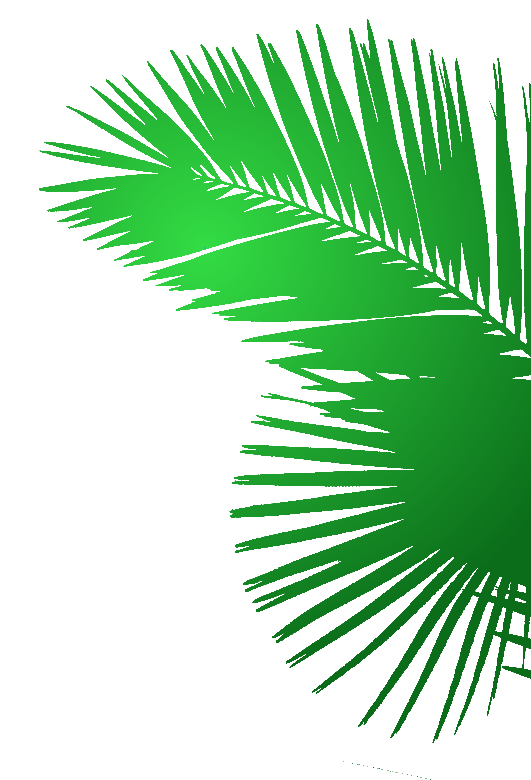
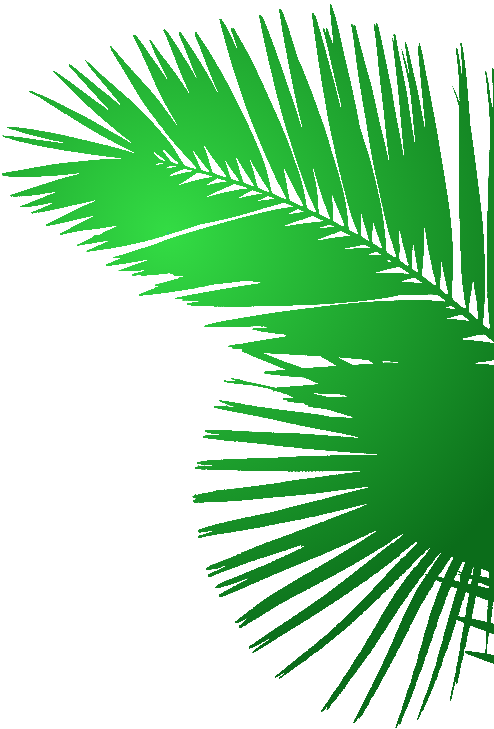
added project background

diff --git a/css/styles.min.css b/css/styles.min.css
@@ -1,1 +1,1 @@
-*{text-align:center;-webkit-box-sizing:border-box;box-sizing:border-box;font-family:'Grape Nuts', cursive}.front-leaf{position:fixed;right:0%;top:0;width:70%;-webkit-transform:translateX(40%) translateY(-20%) rotate(30deg);transform:translateX(40%) translateY(-20%) rotate(30deg);will-change:transform;-webkit-transition:-webkit-transform 1s 0.25s cubic-bezier(0.39, 0.53, 0.59, 0.69);transition:-webkit-transform 1s 0.25s cubic-bezier(0.39, 0.53, 0.59, 0.69);transition:transform 1s 0.25s cubic-bezier(0.39, 0.53, 0.59, 0.69);transition:transform 1s 0.25s cubic-bezier(0.39, 0.53, 0.59, 0.69), -webkit-transform 1s 0.25s cubic-bezier(0.39, 0.53, 0.59, 0.69)}.leaf-2{-webkit-transform:translateX(-40%) translateY(-60%) rotate(-40deg);transform:translateX(-40%) translateY(-60%) rotate(-40deg);position:fixed;left:0;top:0px;width:90%;will-change:transform;-webkit-transition:-webkit-transform 1.2s 0.25s cubic-bezier(0.39, 0.53, 0.59, 0.69);transition:-webkit-transform 1.2s 0.25s cubic-bezier(0.39, 0.53, 0.59, 0.69);transition:transform 1.2s 0.25s cubic-bezier(0.39, 0.53, 0.59, 0.69);transition:transform 1.2s 0.25s cubic-bezier(0.39, 0.53, 0.59, 0.69), -webkit-transform 1.2s 0.25s cubic-bezier(0.39, 0.53, 0.59, 0.69)}.leaf-2.is-visible{-webkit-transform:translateX(0%) translateY(0) rotate(0deg);transform:translateX(0%) translateY(0) rotate(0deg)}.front-leaf.is-visible{-webkit-transform:translateX(0%) translateY(0) rotate(0deg);transform:translateX(0%) translateY(0) rotate(0deg)}.nav-bar{position:fixed;top:0;left:0;width:100%;background-color:#265a16}.nav-bar ul{display:-webkit-box;display:-ms-flexbox;display:flex;-webkit-box-align:center;-ms-flex-align:center;align-items:center;-ms-flex-pack:distribute;justify-content:space-around;list-style:none;font-size:20px;line-height:10px}.nav-bar ul li:hover{-webkit-transform:scale(1.2);transform:scale(1.2)}.nav-bar ul a{text-decoration:none;color:white}.title{font-size:60px;position:absolute;line-height:65px;top:100px;width:100%}.contact{display:-webkit-box;display:-ms-flexbox;display:flex;-webkit-box-pack:center;-ms-flex-pack:center;justify-content:center}.contact div{margin:0 50px}.contact a{color:black}.contact div:hover{-webkit-transform:scale(1.2);transform:scale(1.2)}.arrow{padding-top:50px}#about{margin-top:650px;padding:50px 120px}#about p{font-size:25px}h2{font-size:40px}section{margin:auto;padding-top:40px}.skills-icons{display:-webkit-box;display:-ms-flexbox;display:flex;-webkit-box-pack:center;-ms-flex-pack:center;justify-content:center;-ms-flex-wrap:wrap;flex-wrap:wrap;padding:20px 200px}.skills-icons div{width:100px;height:100px;text-align:center}.skills-icons div i{font-size:40px}#projects{background-size:contain;background-repeat:no-repeat;width:100%;padding-bottom:380px}#projects h2{padding-top:190px;color:white}.project{display:-webkit-box;display:-ms-flexbox;display:flex;-ms-flex-pack:distribute;justify-content:space-around;-ms-flex-wrap:wrap;flex-wrap:wrap;background-size:contain;width:100%;color:white}.each-project{border-radius:10px;width:550px;margin:20px 0px;height:270px;text-align:center}.each-project .project-text{margin:0;opacity:0;will-change:opacity;-webkit-transition:opacity 0.5s 0.5s ease-out;transition:opacity 0.5s 0.5s ease-out}.each-project .project-text a{color:white;font-size:38px;line-height:70px}.each-project h4,.each-project h3,.each-project a,.each-project p{margin:0}.each-project h4{font-size:20px}.each-project h3{font-size:25px;font-weight:900;line-height:35px}.each-project img{border-radius:5px;will-change:width;-webkit-transition:width 1s 0.25s;transition:width 1s 0.25s;width:100%}.each-project:hover .project-text{opacity:1}.each-project:hover img{width:200px}.jobs{display:-webkit-box;display:-ms-flexbox;display:flex;-ms-flex-pack:distribute;justify-content:space-around}.job{height:400px;width:400px}.job h2{font-size:25px;line-height:25px;margin:5px}.job h3{font-size:20px;margin:5px}.job p{font-size:18px}.job .job-title{min-height:120px}.job img{height:70px}.job:hover{border:2px dashed black}
+*{text-align:center;-webkit-box-sizing:border-box;box-sizing:border-box;font-family:'Grape Nuts', cursive}.front-leaf{position:fixed;right:0%;top:0;width:70%;-webkit-transform:translateX(40%) translateY(-20%) rotate(30deg);transform:translateX(40%) translateY(-20%) rotate(30deg);will-change:transform;-webkit-transition:-webkit-transform 1s 0.25s cubic-bezier(0.39, 0.53, 0.59, 0.69);transition:-webkit-transform 1s 0.25s cubic-bezier(0.39, 0.53, 0.59, 0.69);transition:transform 1s 0.25s cubic-bezier(0.39, 0.53, 0.59, 0.69);transition:transform 1s 0.25s cubic-bezier(0.39, 0.53, 0.59, 0.69), -webkit-transform 1s 0.25s cubic-bezier(0.39, 0.53, 0.59, 0.69)}.leaf-2{-webkit-transform:translateX(-80%) translateY(-60%) rotate(-40deg);transform:translateX(-80%) translateY(-60%) rotate(-40deg);position:fixed;left:0;top:0px;width:60%;will-change:transform;-webkit-transition:-webkit-transform 1.2s 0.25s cubic-bezier(0.39, 0.53, 0.59, 0.69);transition:-webkit-transform 1.2s 0.25s cubic-bezier(0.39, 0.53, 0.59, 0.69);transition:transform 1.2s 0.25s cubic-bezier(0.39, 0.53, 0.59, 0.69);transition:transform 1.2s 0.25s cubic-bezier(0.39, 0.53, 0.59, 0.69), -webkit-transform 1.2s 0.25s cubic-bezier(0.39, 0.53, 0.59, 0.69)}.leaf-2.is-visible{-webkit-transform:translateX(0%) translateY(0) rotate(0deg);transform:translateX(0%) translateY(0) rotate(0deg)}.front-leaf.is-visible{-webkit-transform:translateX(0%) translateY(0) rotate(0deg);transform:translateX(0%) translateY(0) rotate(0deg)}.nav-bar{position:fixed;top:0;left:0;width:100%;background-color:#265a16}.nav-bar ul{display:-webkit-box;display:-ms-flexbox;display:flex;-webkit-box-align:center;-ms-flex-align:center;align-items:center;-ms-flex-pack:distribute;justify-content:space-around;list-style:none;font-size:20px;line-height:10px}.nav-bar ul li:hover{-webkit-transform:scale(1.2);transform:scale(1.2)}.nav-bar ul a{text-decoration:none;color:white}.title{font-size:60px;position:absolute;line-height:65px;top:100px;width:100%}.contact{display:-webkit-box;display:-ms-flexbox;display:flex;-webkit-box-pack:center;-ms-flex-pack:center;justify-content:center}.contact div{margin:0 50px}.contact a{color:black}.contact div:hover{-webkit-transform:scale(1.2);transform:scale(1.2)}.arrow{padding-top:50px}#about{margin-top:650px;width:900px}#about p{font-size:25px}h2{font-size:40px}section{margin:auto;padding-top:40px}#skills{width:700px}.skills-icons{display:-webkit-box;display:-ms-flexbox;display:flex;-webkit-box-pack:center;-ms-flex-pack:center;justify-content:center;-ms-flex-wrap:wrap;flex-wrap:wrap;padding:20px}.skills-icons div{width:100px;height:100px;text-align:center}.skills-icons div i{font-size:55px}#projects{background-size:contain;background-repeat:no-repeat;width:100%;padding-bottom:380px}#projects h2{padding-top:190px;color:white}.project{display:-webkit-box;display:-ms-flexbox;display:flex;-ms-flex-pack:distribute;justify-content:space-around;-ms-flex-wrap:wrap;flex-wrap:wrap;background-size:contain;width:100%;color:white}.each-project{border-radius:10px;width:550px;margin:20px 0px;height:270px;text-align:center}.each-project .project-text{margin:0;opacity:0;will-change:opacity;-webkit-transition:opacity 0.5s 0.5s ease-out;transition:opacity 0.5s 0.5s ease-out}.each-project .project-text a{color:white;font-size:38px;line-height:70px}.each-project h4,.each-project h3,.each-project a,.each-project p{margin:0}.each-project h4{font-size:20px}.each-project h3{font-size:25px;font-weight:900;line-height:35px}.each-project img{border-radius:5px;will-change:width;-webkit-transition:width 1s 0.25s;transition:width 1s 0.25s;width:100%}.each-project:hover .project-text{opacity:1}.each-project:hover img{width:200px}.jobs{display:-webkit-box;display:-ms-flexbox;display:flex;-ms-flex-pack:distribute;justify-content:space-around;padding-bottom:200px}.job{height:400px;width:400px;border-radius:20px}.job h2{font-size:25px;line-height:25px;margin:5px}.job h3{font-size:20px;margin:5px}.job p{font-size:18px}.job .job-title{min-height:120px}.job img{height:70px}.job:hover{border:4px dashed #265a16}

diff --git a/styles.scss b/styles.scss
@@ -19,11 +19,11 @@
   transition: transform 1s 0.25s cubic-bezier(0.39, 0.53, 0.59, 0.69);
 }
 .leaf-2 {
-  transform: translateX(-40%) translateY(-60%) rotate(-40deg);
+  transform: translateX(-80%) translateY(-60%) rotate(-40deg);
   position: fixed;
   left: 0;
   top: 0px;
-  width: 90%;
+  width: 60%;
   will-change: transform;
   transition: transform 1.2s 0.25s cubic-bezier(0.39, 0.53, 0.59, 0.69);
 }
@@ -63,6 +63,7 @@
     li:hover {
       transform: scale(1.2);
     }
+
     a {
       text-decoration: none;
       color: white;
@@ -94,7 +95,7 @@
 }
 #about {
   margin-top: 650px;
-  padding: 50px 120px;
+  width: 900px;
   p {
     font-size: 25px;
   }
@@ -106,17 +107,20 @@ section {
   margin: auto;
   padding-top: 40px;
 }
+#skills {
+  width: 700px;
+}
 .skills-icons {
   display: flex;
   justify-content: center;
   flex-wrap: wrap;
-  padding: 20px 200px;
+  padding: 20px;
   div {
     width: 100px;
     height: 100px;
     text-align: center;
     i {
-      font-size: 40px;
+      font-size: 55px;
     }
   }
 }
@@ -189,10 +193,12 @@ section {
 .jobs {
   display: flex;
   justify-content: space-around;
+  padding-bottom: 200px;
 }
 .job {
   height: 400px;
   width: 400px;
+  border-radius: 20px;
   h2 {
     font-size: 25px;
     line-height: 25px;
@@ -213,5 +219,5 @@ section {
   }
 }
 .job:hover {
-  border: 2px dashed black;
+  border: 4px dashed #265a16;
 }
